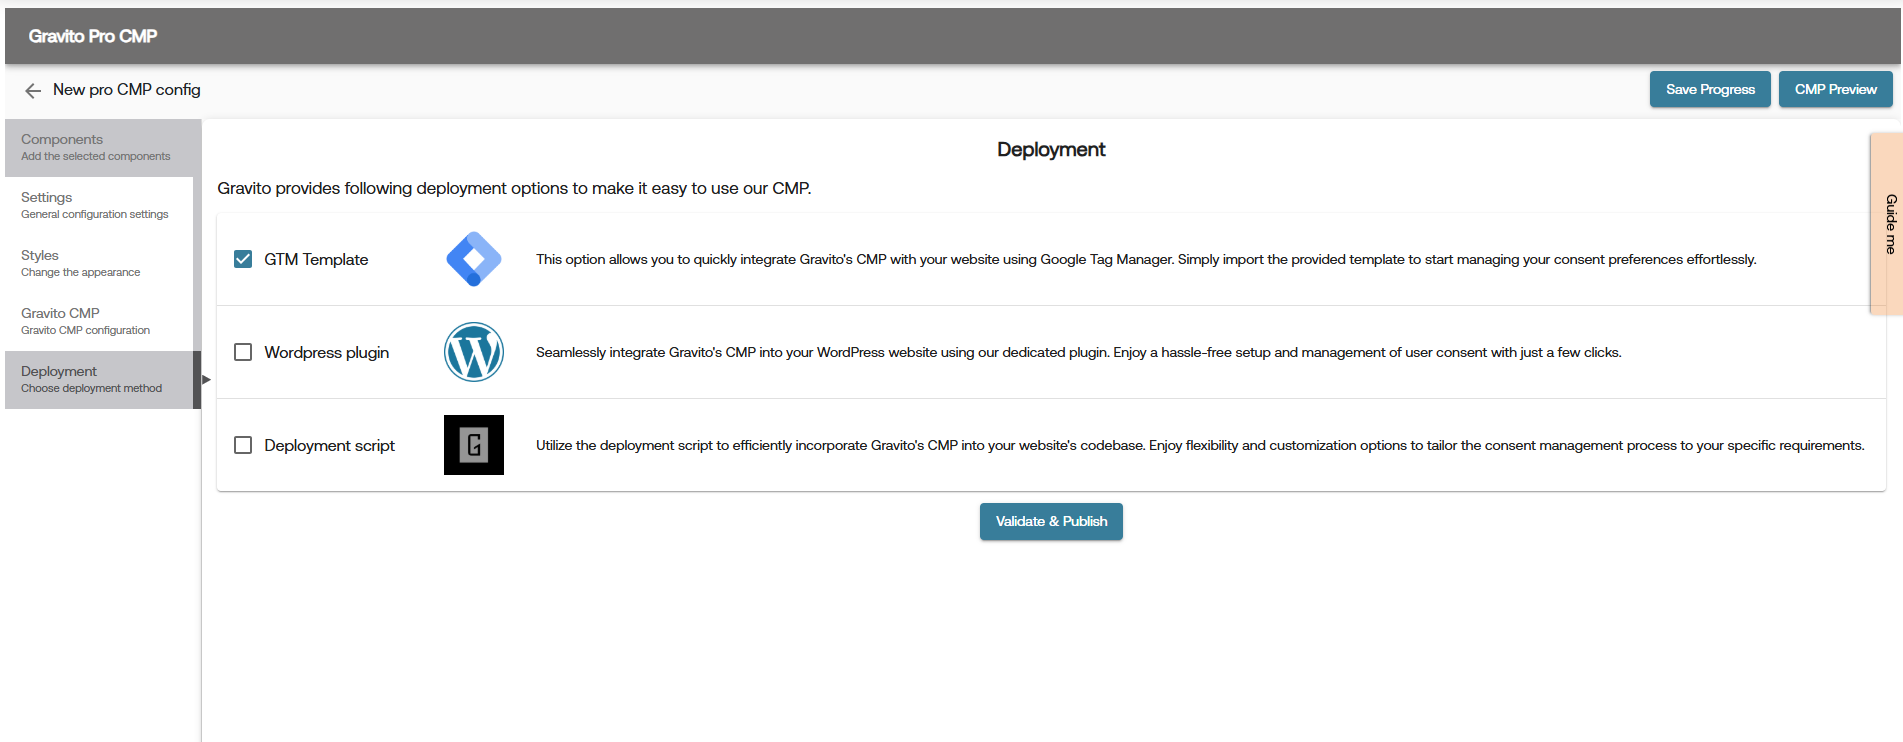
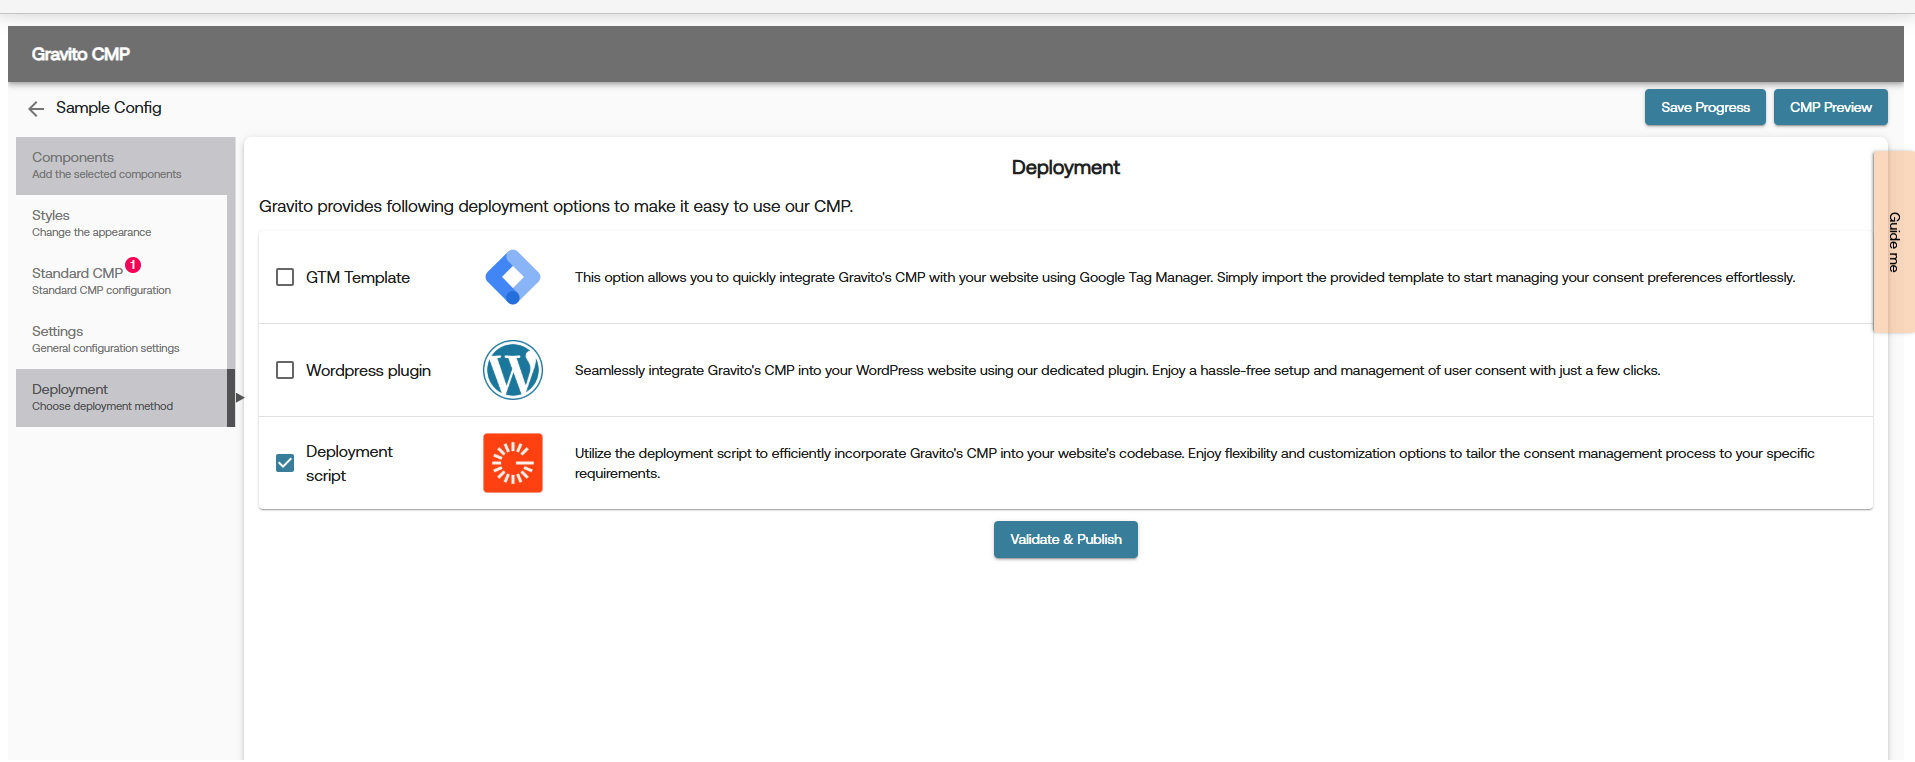
Gravito new configurator docs update

Changed region(s): [[0.0, 0.0, 1.0, 0.558], [0.124, 0.558, 0.9921, 0.7439], [0.5271, 0.186, 0.5891, 0.248]]

diff --git a/docs/Gravito_V6_CMP/Components/custom_tabs.md b/docs/Gravito_V6_CMP/Components/custom_tabs.md
@@ -1,0 +1,19 @@
+# Custom Tabs
+
+Gravito CMP (New) allows you to create custom tabs for your CMP. This feature is useful for adding additional information or functionality to your CMP.
+
+## Creating Custom Tabs
+To add a custom tab to your CMP, follow these steps:
+
+1. Check the **Custom Tabs** checkbox in the **Components** section of the configurator.
+    ![](../img/custom_tabs_checkbox.png) 
+2. A new tab will appear in the configurator named **Custom Tabs**.
+3. Click on the **Custom Tabs** tab where you can configure your custom tabs.
+4. Click on the **Add Tab** button to create a new tab.
+    ![](../img/custom_tab.png)
+5. Enter the **Tab Title** and **Tab URL** in the provided fields.
+6. You can also adjust the sequence of the tabs by dragging and dropping them in the list.
+7. Once you have added all the required tabs, click **CMP Preview** to see the changes in the CMP preview.
+8. Click **Save Progress** to save your changes.
+
+>**Note**: You can either host a static HTML page and provide the URL or can provide a URL of a page from your website. The content of the tab will be loaded from the provided URL.

diff --git a/docs/Gravito_V6_CMP/Setup_and_Design.md b/docs/Gravito_V6_CMP/Setup_and_Design.md
@@ -2,7 +2,7 @@ Gravito CMP (New) Setup can be done using Gravito CMP (New) Configurator on Grav
 
 Go to CMP >> Gravito CMP (New)
 
-![](./img/pro_configurator_link.png)
+![](./img/configurator_link.png)
 
 Click on "New Configuration" button to create a new configuration.
 
@@ -14,17 +14,17 @@ Click on "Get Started" button after adding a Config name and selecting a appropr
 
 You can now go through each of the following sections and configure the CMP as per your requirement.
 
-### 1. Settings configuraton Tab
+### 1. Settings configuration Tab
 
 ![](./img/settings_tab.png)
 
-### 2. Styles configuraton Tab
+### 2. Styles configuration Tab
 
 ![](./img/style_tab.png)
 
-### 3. Framework configuraton Tab
+### 3. Framework configuration Tab
 
-![](./img/gravito_cmp_tab.png)
+![](./img/standard_cmp_tab.png)
 
 ### 4. Deployment Tab
 

diff --git a/docs/Gravito_V6_CMP/Customization.md b/docs/Gravito_V6_CMP/Customization.md
@@ -53,6 +53,6 @@ The **Styles** tab allows you to configure the appearance of your CMP. Below are
 
 ## Additional Customizations
 
-Apart from the styles tab, you can also customize the look and feel of the CMP by adding custom CSS. This allows for more granular control over the appearance of various elements within the CMP. You can add your CSS code in the **Custom CSS** editor field in the **Appearence** sub-tab of the selected framework.
+Apart from the styles tab, you can also customize the look and feel of the CMP by adding custom CSS. This allows for more granular control over the appearance of various elements within the CMP. You can add your CSS code in the **Custom CSS** editor field in the **Appearance** sub-tab of the selected framework.
 
 ![](./img/custom_css.png)

diff --git a/docs/Gravito_V6_CMP/Components/StandardCMP/gravito_cmp.md b/docs/Gravito_V6_CMP/Components/StandardCMP/gravito_cmp.md
@@ -11,9 +11,9 @@ You can use the Standard CM component in your v6 CMP while setting up your confi
 
 ## How to setup Standard CMP Component?
 Standard CMP setup can be done using Gravito CMP (New) Configurator on Gravito’s Admin Portal.
-Once you have selected the Gravito CMP component in the configurator, it will add the Gravito CMP tab in the left sidebar of the configurator. Click on it to open the Gravito CMP-specific configurator area.
+Once you have selected the Standard CMP component in the configurator, it will add the Standard CMP tab in the left sidebar of the configurator. Click on it to open the Gravito CMP-specific configurator area.
 
-![](../../img/gravito_cmp_tab.png)
+![](../../img/standard_cmp_tab.png)
 
 In this section, you will find the following tabs:
 

diff --git a/docs/Gravito_V6_CMP/FAQ.md b/docs/Gravito_V6_CMP/FAQ.md
@@ -2,6 +2,6 @@
 
 - [How to use your custom font in CMP?](./FAQ/How_to_addCustomFonts.md)
 - [ How to Resurface the CMP UI to All users and Collect Consent Again?](./FAQ/How_to_resurface_ProCMP.md)
-- [How to open CMP in given sesssion?](./FAQ/How_open_CMP_in_given_session.md)
-- [How to Provide Google with the Required Legititimate Interest's Even on Reject All Action?](./FAQ/How_to_be_google_complaint.md)
+- [How to open CMP in given session?](./FAQ/How_open_CMP_in_given_session.md)
+- [How to Provide Google with the Required Legitimate Interest's Even on Reject All Action?](./FAQ/How_to_be_google_complaint.md)
 - [How to fire GTM tags based on consents in CMP?(Only for Standard CMP Component)](./FAQ/How_to_fireGTM_tags_based_on_consents.md)

diff --git a/docs/Gravito_V6_CMP/Components/TCFCMP/tcf_cmp.md b/docs/Gravito_V6_CMP/Components/TCFCMP/tcf_cmp.md
@@ -175,4 +175,4 @@ Below is the list of event types dispatched by the TCF CMP component:
 - [How to Resurface the CMP UI to All users and Collect Consent Again?](../../FAQ/How_to_resurface_ProCMP.md)
 
 - [How to use your custom font in CMP?](../../FAQ/How_to_addCustomFonts.md)
-- [How to Provide Google with the Required Legititimate Interest's Even on Reject All Action?](../../FAQ/How_to_be_google_complaint.md)
+- [How to Provide Google with the Required Legitimate Interest's Even on Reject All Action?](../../FAQ/How_to_be_google_complaint.md)

diff --git a/docs/Gravito_V6_CMP/Components.md b/docs/Gravito_V6_CMP/Components.md
@@ -9,3 +9,7 @@ Gravito’s own non-TCF  CMP. It is a lightweight solution suitable for any webs
 ## - TCF 2.2 CMP  
 A TCF-certified CMP designed for GDPR compliance. It is a full-featured CMP suitable for any website.  
 [TCF 2.2 CMP Documentation](./Components/TCFCMP/tcf_cmp.md)
+
+## - Custom Tabs
+Gravito CMP (New) allows you to create custom tabs for your CMP. This feature is useful for adding additional information or functionality to your CMP.
+[Custom Tabs Documentation](./Components/custom_tabs.md)
